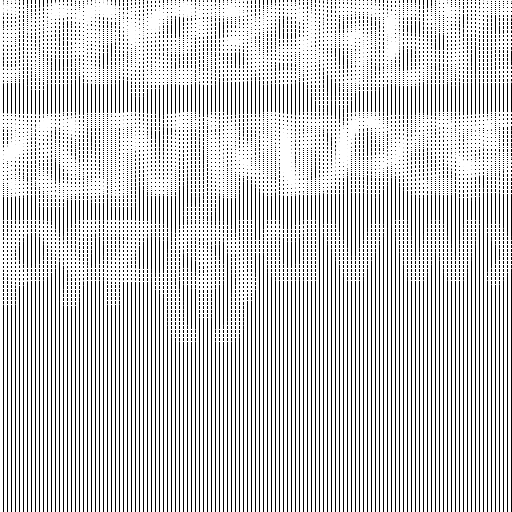
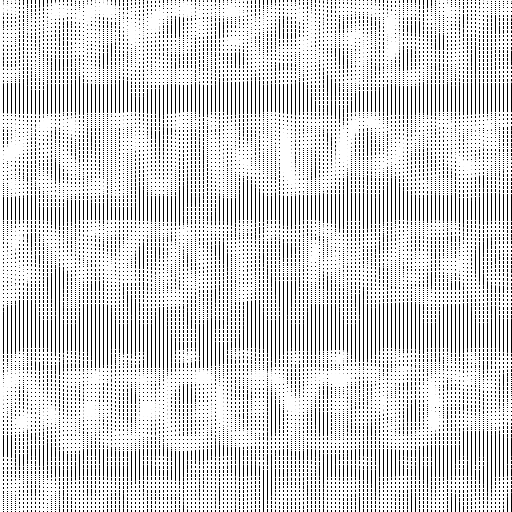
Font loading only happens once on initialization instead of each time SetSize gets called

diff --git a/Blackberry/src/blackberry/font/font.cpp b/Blackberry/src/blackberry/font/font.cpp
@@ -26,23 +26,21 @@ namespace Blackberry {
     }
 
     Font::~Font() {
-        
+        FT_Done_Face(m_Face);
     }
 
     void Font::LoadFontFromFile(const std::filesystem::path& path, u32 size) {
         m_FontPath = path;
 
-        SetSize(size);
+        CreateFont(size);
     }
 
     BlGlyphInfo Font::GetGlyphInfo(u32 value, u32 size) {
-        if (!m_Fonts.contains(size)) {
-            SetSize(size);
-        }
+        SetSize(size);
 
         __BlFont font = m_Fonts.at(size);
 
-        for (int i = 32; i < font.GlyphCount; i++) {
+        for (u32 i = 32; i < font.GlyphCount; i++) {
             if (font.Glyphs[i].Value == value) {
                 return font.Glyphs[i];
             }
@@ -52,21 +50,17 @@ namespace Blackberry {
     }
 
     void Font::SetSize(u32 size) {
-        Log(Log_Info, "Set size called!");
-        FT_Face face;
-        if (FT_New_Face(s_FT, m_FontPath.string().c_str(), 0, &face)) {
-            Log(Log_Error, "Failed to create font %s!", m_FontPath.string().c_str());
-        }
+        if (m_Fonts.contains(size)) { return; }
 
-        FT_Set_Pixel_Sizes(face, 0, size);
+        FT_Set_Pixel_Sizes(m_Face, 0, size);
 
         // to insert the size
-        m_Fonts[size].GlyphCount = face->num_glyphs;
+        m_Fonts[size].GlyphCount = m_Face->num_glyphs;
 
         __BlFont& font = m_Fonts.at(size);
 
         // set up glyph array
-        font.Glyphs = new BlGlyphInfo[128];
+        font.Glyphs = new BlGlyphInfo[255];
 
         u32 currentX = 0;
         u32 currentY = 0;
@@ -75,13 +69,13 @@ namespace Blackberry {
         u8* buffer = new u8[512 * 512];
         memset(buffer, 0, 512 * 512);
 
-        for (u8 c = 32; c < 127; c++) {
-            if (FT_Load_Char(face, c, FT_LOAD_RENDER)) {
+        for (u8 c = 32; c < 255; c++) {
+            if (FT_Load_Char(m_Face, c, FT_LOAD_RENDER)) {
                 Log(Log_Debug, "Failed to load codepoint %c", c);
                 continue;
             }
 
-            FT_GlyphSlot g = face->glyph;
+            FT_GlyphSlot g = m_Face->glyph;
             FT_Bitmap bmp = g->bitmap;
 
             if (currentX + bmp.width >= 512) {
@@ -137,33 +131,25 @@ namespace Blackberry {
     }
 
     BlTexture Font::GetTexture(u32 size) {
-        if (!m_Fonts.contains(size)) {
-            SetSize(size);
-        }
+        SetSize(size);
 
         return m_Fonts.at(size).Atlas;
     }
 
    void Font::GetImage(Image& image, u32 size) {
-        if (!m_Fonts.contains(size)) {
-            SetSize(size);
-        }
+        SetSize(size);
 
         image = *m_Fonts.at(size).Image;
     }
 
    u32 Font::GetAscender(u32 size) {
-       if (!m_Fonts.contains(size)) {
-            SetSize(size);
-       }
+       SetSize(size);
 
        return m_Fonts.at(size).Ascender;
    }
 
    u32 Font::GetDescender(u32 size) {
-       if (!m_Fonts.contains(size)) {
-            SetSize(size);
-       }
+       SetSize(size);
 
        return m_Fonts.at(size).Descender;
    }
@@ -176,6 +162,12 @@ namespace Blackberry {
             }
 
             s_IsInitialized = true;
+        }
+   }
+
+   void Font::CreateFont(u32 size) {
+        if (FT_New_Face(s_FT, m_FontPath.string().c_str(), 0, &m_Face)) {
+            Log(Log_Error, "Failed to create font %s!", m_FontPath.string().c_str());
         }
    }
 

diff --git a/Blackberry/src/blackberry/rendering/rendering.cpp b/Blackberry/src/blackberry/rendering/rendering.cpp
@@ -108,11 +108,6 @@ namespace Blackberry {
         for (u32 c = 0; c < str.length(); c++) {
             BlGlyphInfo glyph = font.GetGlyphInfo(str.at(c), size);
 
-            if (str.at(c) == 'j') {
-            Log(Log_Info, "char: %c, Top: %d, Height %f, Ascender %d, Descender %d", str.at(c), glyph.Top, glyph.Rect.h, font.GetAscender(size), font.GetDescender(size));
-                
-            }
-            
             DrawTextureArea(BlVec2(currentX + glyph.Left, currentY - glyph.Top), BlVec2(glyph.Rect.w, glyph.Rect.h), glyph.Rect, tex, White);
             currentX += glyph.AdvanceX + 1;
         }

diff --git a/Blackberry/src/blackberry/font/font.hpp b/Blackberry/src/blackberry/font/font.hpp
@@ -5,6 +5,8 @@
 #include <filesystem>
 #include <unordered_map>
 
+struct FT_FaceRec_;
+
 namespace Blackberry {
 
     struct BlGlyphInfo {
@@ -42,10 +44,13 @@ namespace Blackberry {
 
     private:
         void InitFreeType();
+        void CreateFont(u32 size);
 
     private:
         std::filesystem::path m_FontPath;
         std::unordered_map<u32, __BlFont> m_Fonts; // map of fonts (with the key being the font size)
+        
+        FT_FaceRec_* m_Face;
     };
 
 } // namespace Blackberry

diff --git a/Blackberry/src/blackberry/application/application.hpp b/Blackberry/src/blackberry/application/application.hpp
@@ -66,6 +66,7 @@ namespace Blackberry {
         Renderer& GetRenderer() { return *m_Renderer; }
 
         f32 GetDeltaTime() const { return m_dt; }
+        u32 GetFPS() const { return 1.0f / m_dt; }
 
         // To be implemented by client!
         static Application* CreateApplication(const CommandLineArgs& args);

diff --git a/examples/20_basic_rendering/main.cpp b/examples/20_basic_rendering/main.cpp
@@ -45,6 +45,8 @@ public:
         } else {
             m_CatPosition.x += 2.0f;
         }
+
+        Log(Log_Info, "FPS: %u", Blackberry::Application::Get().GetFPS());
     }
 
 private:

diff --git a/Blackberry/src/stl/vector.hpp b/Blackberry/src/stl/vector.hpp
@@ -4,6 +4,8 @@
 
 #include "stdlib.h"
 
+#include <iostream>
+
 template<typename T>
 class BlVector {
 public:
